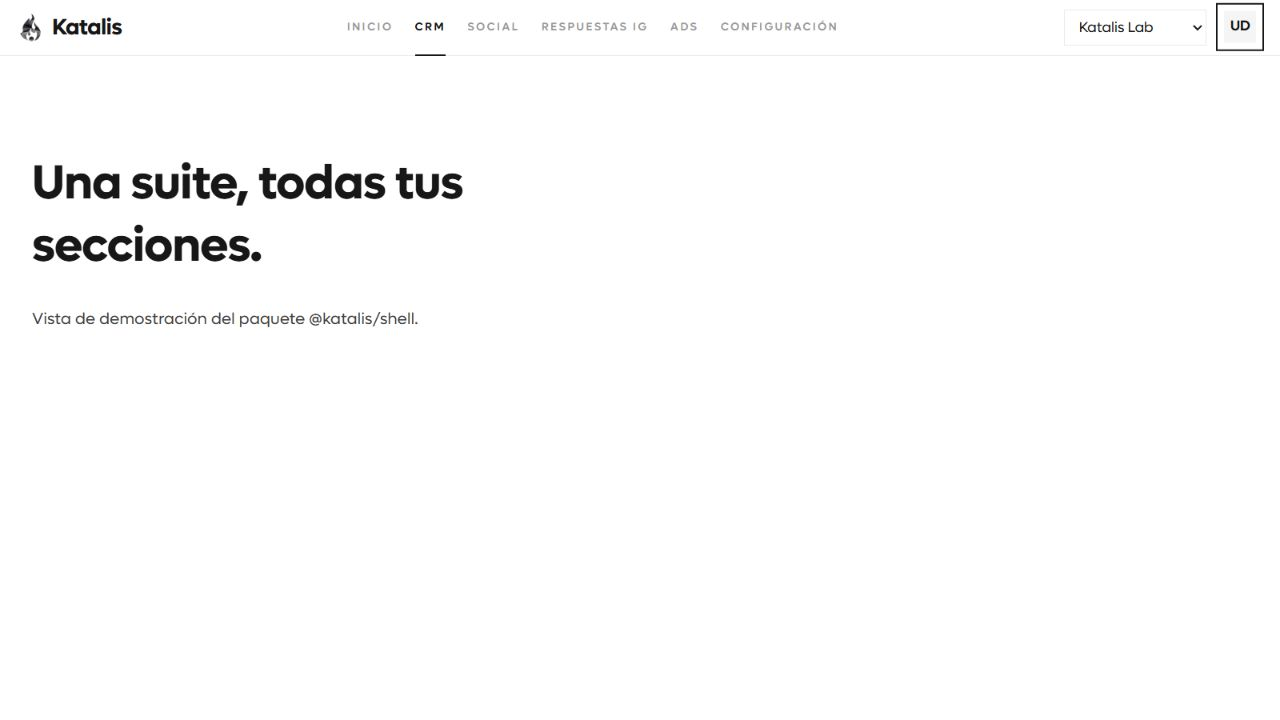
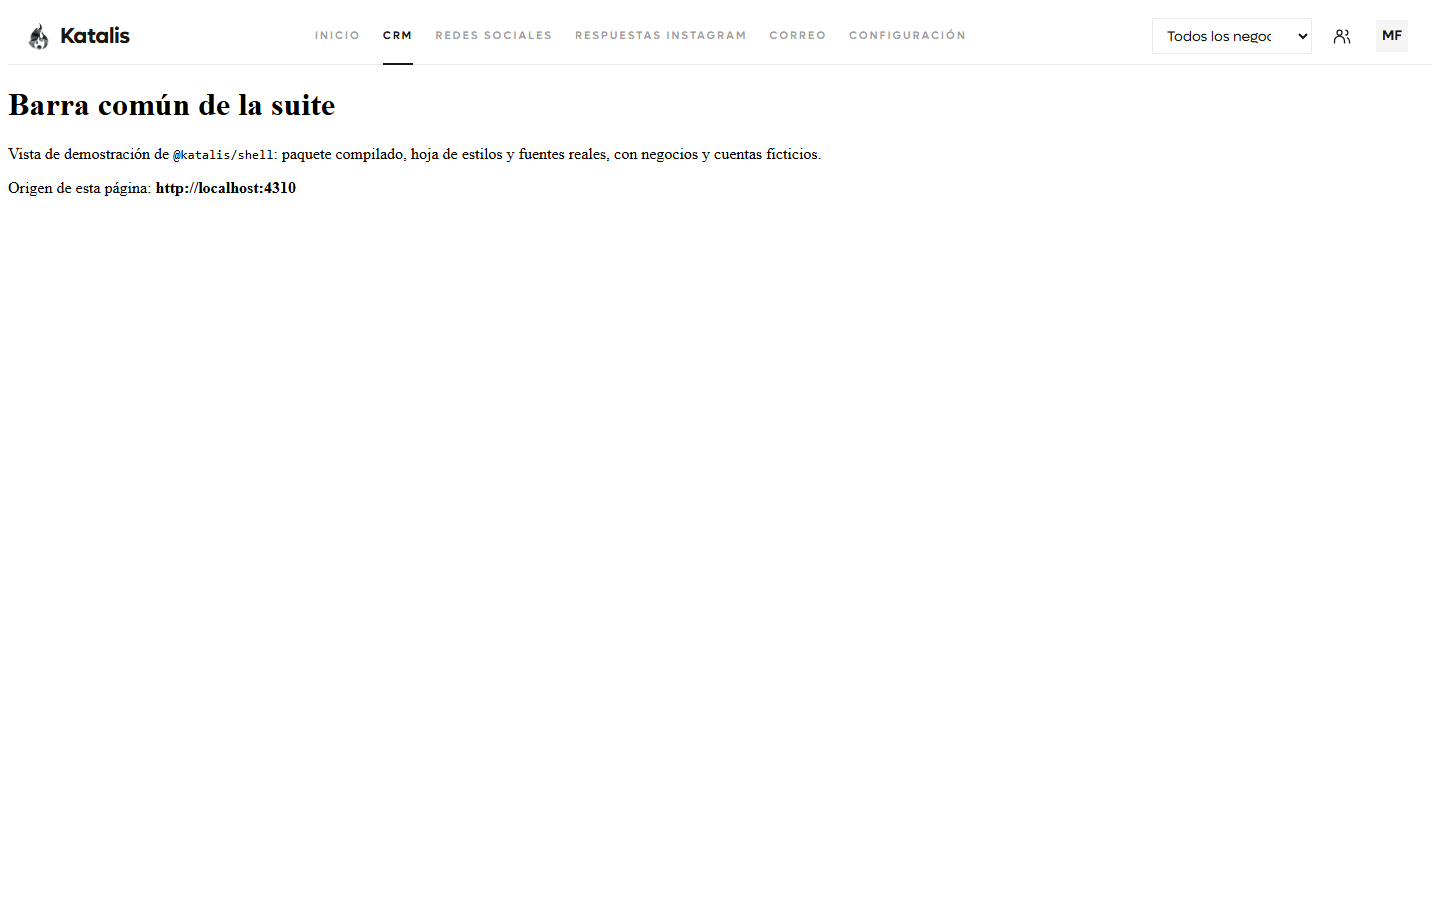
chore(shell): fixture reproducible, capturas y versión 0.6.0
El ejemplo usa enlaces completos, un catálogo ficticio explícito y un nombre
largo, carga el paquete compilado y la hoja real, y se sirve con dos comandos.
`?compatibilidad=1` añade la barra de siete secciones. La salida se ejercita
contra el servidor local, con éxito y con fallo.

`check-types` valida también el ejemplo con `tsconfig.examples.json`; antes un
verde de `src` no decía nada del fixture.

README: tercer argumento, seis secciones, `all`, responsive, atajo y el catálogo
del CRM como autoridad. El paquete queda en 0.6.0, sin etiqueta.

diff --git a/examples/preview.tsx b/examples/preview.tsx
@@ -1,22 +1,100 @@
 import { createRoot } from 'react-dom/client';
-import { KatalisShell, createSections, openReplyContactsHref, useKatalisBusiness } from '../src/index.js';
+import {
+  createSections,
+  KatalisBusinessProvider,
+  KatalisShell,
+  openReplyContactsHref,
+  OPERATIONAL_SECTION_IDS,
+  useKatalisBusiness,
+  type BusinessCatalog,
+  type KatalisLinks,
+} from '../dist/index.js';
 import '../styles.css';
 
-const links = {
-  home: 'http://localhost:4310',
-  crm: 'http://localhost:3000',
-  social: 'http://localhost:4200',
-  replies: 'https://openreply.katalis.dev',
+const ORIGIN_A = 'http://localhost:4310';
+const ORIGIN_B = 'http://127.0.0.1:4311';
+
+const links: KatalisLinks = {
+  home: `${ORIGIN_A}/`,
+  crm: `${ORIGIN_B}/crm`,
+  social: `${ORIGIN_B}/social`,
+  replies: `${ORIGIN_B}/replies`,
+  mail: `${ORIGIN_A}/correo`,
   ads: '#',
-  settings: 'http://localhost:3000/settings',
+  settings: `${ORIGIN_A}/configuracion`,
 };
 
-function Preview() {
+const catalog: BusinessCatalog = {
+  options: [
+    { id: 'biz-orbita-sw', label: 'Órbita SW', groupId: 'orbita', groupLabel: 'Órbita' },
+    { id: 'biz-orbita-luxury', label: 'Órbita Luxury', groupId: 'orbita', groupLabel: 'Órbita' },
+    { id: 'biz-rock-and-jewel', label: 'Rock & Jewel' },
+    {
+      id: 'biz-distribuidora-de-materiales-industriales-del-bajio',
+      label: 'Distribuidora de materiales industriales del Bajío',
+    },
+  ],
+};
+
+const longUser = {
+  name: 'María Fernanda de la Cruz Villaseñor',
+  email: 'maria.fernanda.delacruz@negocio-de-ejemplo-largo.test',
+};
+
+const shortUser = {
+  name: 'Ana Ruiz',
+  email: 'ana@ejemplo.test',
+};
+
+function Operational() {
   const business = useKatalisBusiness();
-  return <>
-    <KatalisShell sections={createSections(links, business.value)} current="crm" business={business} contactsHref={openReplyContactsHref('http://localhost:3000/crm', business.value)} user={{ name: 'Usuario de ejemplo', email: 'demo@example.com', onSignOut() {} }} />
-    <main id="katalis-content" tabIndex={-1}><h1>Una suite, todas tus secciones.</h1><p>Vista de demostración del paquete @katalis/shell.</p></main>
-  </>;
+  return (
+    <KatalisShell
+      sections={createSections(links, business.value, { visibleSections: OPERATIONAL_SECTION_IDS })}
+      current="crm"
+      business={business}
+      contactsHref={openReplyContactsHref(`${ORIGIN_A}/espacio`, business.value)}
+      signOutUrl={`${ORIGIN_A}/api/salida`}
+      signOutDestination="/salida-ok"
+      user={longUser}
+    />
+  );
+}
+
+function Compatibility() {
+  const business = useKatalisBusiness();
+  return (
+    <KatalisShell
+      sections={createSections(links, business.value)}
+      current="home"
+      business={business}
+      signOutUrl={`${ORIGIN_A}/api/salida-fallida`}
+      signOutDestination="/salida-ok"
+      user={shortUser}
+    />
+  );
+}
+
+function Preview() {
+  const withCompatibility = new URLSearchParams(window.location.search).get('compatibilidad') === '1';
+  return (
+    <KatalisBusinessProvider catalog={catalog}>
+      <div className="fixture">
+        <Operational />
+        {withCompatibility ? <Compatibility /> : null}
+        <main id="katalis-content" tabIndex={-1} className="fixture__content">
+          <h1>Barra común de la suite</h1>
+          <p>
+            Vista de demostración de <code>@katalis/shell</code>: paquete compilado, hoja de estilos y
+            fuentes reales, con negocios y cuentas ficticios.
+          </p>
+          <p>
+            Origen de esta página: <strong>{window.location.origin}</strong>
+          </p>
+        </main>
+      </div>
+    </KatalisBusinessProvider>
+  );
 }
 
 createRoot(document.getElementById('root')!).render(<Preview />);

diff --git a/examples/serve.ts b/examples/serve.ts
@@ -1,0 +1,35 @@
+const port = Number(process.argv[2] ?? 4310);
+const hostname = process.argv[3] ?? 'localhost';
+const root = new URL('..', import.meta.url).pathname.replace(/^\/([A-Za-z]:)/, '$1');
+const dist = `${root}/examples/dist`;
+
+const page = async (file: string, type: string): Promise<Response> =>
+  new Response(Bun.file(file), { headers: { 'content-type': type } });
+
+Bun.serve({
+  port,
+  hostname,
+  async fetch(request) {
+    const { pathname } = new URL(request.url);
+    if (pathname === '/api/salida') return new Response(null, { status: 200 });
+    if (pathname === '/api/salida-fallida') return new Response(null, { status: 500 });
+    if (pathname === '/salida-ok') {
+      return new Response(
+        '<!doctype html><html lang="es-MX"><head><meta charset="utf-8"><title>Salida correcta</title></head><body><main id="katalis-content"><h1>Salida correcta</h1><p>La sesión se cerró y el navegador llegó al destino seguro.</p></main></body></html>',
+        { headers: { 'content-type': 'text/html; charset=utf-8' } },
+      );
+    }
+    if (pathname === '/' || pathname === '/crm' || pathname === '/social' || pathname === '/replies' || pathname === '/correo' || pathname === '/configuracion') {
+      return page(`${root}/examples/index.html`, 'text/html; charset=utf-8');
+    }
+    if (pathname === '/preview.js') return page(`${dist}/preview.js`, 'text/javascript; charset=utf-8');
+    if (pathname === '/styles.css') return page(`${dist}/preview.css`, 'text/css; charset=utf-8');
+    const asset = pathname.slice(1);
+    if (/^[A-Za-z0-9._-]+$/.test(asset) && (await Bun.file(`${dist}/${asset}`).exists())) {
+      return new Response(Bun.file(`${dist}/${asset}`));
+    }
+    return new Response('No encontrado', { status: 404, headers: { 'content-type': 'text/plain; charset=utf-8' } });
+  },
+});
+
+console.log(`Fixture en http://${hostname}:${port}/`);

diff --git a/examples/index.html b/examples/index.html
@@ -1,0 +1,13 @@
+<!doctype html>
+<html lang="es-MX">
+  <head>
+    <meta charset="utf-8" />
+    <meta name="viewport" content="width=device-width, initial-scale=1" />
+    <title>Barra común de la suite — vista de demostración</title>
+    <link rel="stylesheet" href="./styles.css" />
+  </head>
+  <body>
+    <div id="root"></div>
+    <script type="module" src="./preview.js"></script>
+  </body>
+</html>

diff --git a/README.md b/README.md
@@ -5,12 +5,19 @@ El CSS consume `@katalis/ui-tokens` v0.1.0. La barra mide 56 px, conserva esquin
 Instala los tokens explícitamente en cada aplicación; son una dependencia par, igual que React.
 
 ```tsx
-import { KatalisShell, createSections, useKatalisBusiness } from '@katalis/shell';
+import { KatalisShell, createSections, OPERATIONAL_SECTION_IDS, useKatalisBusiness } from '@katalis/shell';
 import '@katalis/shell/styles.css';
 
 function Navigation({ links, user }) {
   const business = useKatalisBusiness();
-  return <KatalisShell sections={createSections(links, business.value)} current="crm" business={business} user={user} />;
+  return (
+    <KatalisShell
+      sections={createSections(links, business.value, { visibleSections: OPERATIONAL_SECTION_IDS })}
+      current="crm"
+      business={business}
+      user={user}
+    />
+  );
 }
 ```
 
@@ -21,11 +28,19 @@ function Navigation({ links, user }) {
 | `business` | `{ value, options: [{ id, label }], onChange }`. Estado controlado por la aplicación. |
 | `user` | `{ name, email, avatarUrl?, onSignOut }`. El callback cierra la sesión en la aplicación anfitriona. |
 | `signInHref` | Enlace de acceso cuando `user` está ausente. El hub usa el acceso del CRM. |
-| `contactsHref` | Acceso directo «Contactos de OpenReply»; icono con nombre accesible y texto desde 1600 px. |
+| `contactsHref` | Acceso directo «Contactos de Instagram»; icono con nombre accesible y texto desde 1600 px. |
 | `contentId` | ID del contenido para el enlace accesible. Predeterminado: `katalis-content`. |
 
 `links` es un objeto con los siete IDs y enlaces HTTP/HTTPS absolutos.
+`createSections(links, businessId, options)` acepta un tercer argumento opcional.
+Sin él devuelve las siete secciones en orden canónico, como antes.
+Con `{ visibleSections }` devuelve solo esos IDs, en orden canónico y sin duplicados; una lista vacía no dibuja ninguna.
+`OPERATIONAL_SECTION_IDS` es la lista operativa: `home`, `crm`, `social`, `replies`, `mail`, `settings`.
+`ads` sigue en los tipos y en las etiquetas para no romper a quien ya lo pasa, pero no entra en la navegación operativa.
+Etiquetas visibles: Inicio, CRM, Redes sociales, Respuestas Instagram, Correo y Configuración.
 `createSections` conserva rutas, parámetros y fragmentos; `#` desactiva una sección pendiente, como Ads.
+Un negocio explícito y `all` sustituyen el `negocio` anterior con una sola ocurrencia.
+`all` viaja escrito: quien lee la barra consulta el almacenamiento local del origen cuando falta el parámetro, así que borrarlo resucitaría una selección vieja en el destino. Una entrada vacía o ausente no toca el negocio del destino.
 CRM: `http://localhost:3000` o `https://crm.katalis.dev`.
 Social: `http://localhost:4200` o `https://social.katalis.dev`.
 Respuestas IG: `https://openreply.katalis.dev`.
@@ -33,8 +48,8 @@ Correo: `https://mail.katalis.dev`, pendiente (`#`) hasta que el servicio esté 
 Configuración usa el enlace absoluto del CRM terminado en `/settings`.
 Inicio apunta a `https://katalis.dev` o al hub local en `http://localhost:4300`.
 
-`useKatalisBusiness` ofrece Todos los negocios, Órbita, Rock & Jewel, Dental y Katalis Lab.
-Conserva la selección en almacenamiento local y la transfiere mediante el parámetro `negocio` al navegar.
+El catálogo lo publica el CRM. `KatalisBusinessProvider` recibe `{ options: [{ id, label, groupId?, groupLabel? }] }` y es la autoridad; la lista que trae el paquete es solo un respaldo de desarrollo y ninguna interfaz debe tratarla como catálogo real.
+`useKatalisBusiness` conserva la selección en almacenamiento local y la transfiere mediante el parámetro `negocio` al navegar.
 Usa la clave `katalis.business`. El almacenamiento es por origen; el parámetro `negocio` transfiere la selección entre subdominios.
 El hook devuelve `ready` después de hidratar y acepta un callback opcional para cambios del selector.
 Cada aplicación aplica sus filtros. El CRM usa la selección como filtro inicial de Negocio en Contactos.
@@ -44,7 +59,10 @@ La autenticación y las integraciones de datos pertenecen a cada aplicación. Es
 Importa el CSS una vez desde el layout raíz. CRM, Postiz y OpenReply montan la barra en su zona autenticada.
 El hub también monta la barra sin sesión, con el enlace Entrar.
 Asigna el espacio restante al contenido con flex y `min-height: 0` para evitar doble scroll.
-Las seis secciones son visibles desde 900 px. Por debajo usan un desplegable accesible. Escape cierra los desplegables.
+La barra se adapta sin cambiar de diseño: por debajo de 900 px la navegación vive en el desplegable Secciones; entre 900 y 1199 px la navegación ocupa una segunda fila y la barra crece; desde 1200 px vuelve a una sola fila cuando cabe.
+La segunda fila hace que la barra mida más de 56 px en ese rango: un consumidor que reste una altura fija al contenido debe usar flex, no una resta.
+Los valores largos del selector solo se truncan en pantalla; su nombre accesible no cambia.
+Escape cierra los desplegables y el enlace Saltar al contenido apunta a `contentId`.
 La barra usa enlaces nativos, foco visible y movimiento reducido. No contiene una acción primaria.
 Las microcaps inactivas siguen el requisito explícito de tinta al 40 %, que prevalece sobre K6 en esta barra.
 
@@ -64,6 +82,19 @@ bun run check-types
 bun test
 ```
 
+Vista de demostración, con datos ficticios y sin servicios reales:
+
+```sh
+bun run build
+bun run preview:build
+bun run preview:serve        # http://localhost:4310
+bun run preview:serve-b      # http://127.0.0.1:4311, el segundo origen
+```
+
+El fixture carga el paquete compilado (`dist`), la hoja `styles.css` y las fuentes reales.
+`?compatibilidad=1` añade una segunda barra con las siete secciones para comprobar la compatibilidad.
+La salida se ejercita contra el servidor local: `/api/salida` responde 200 y `/api/salida-fallida` responde 500.
+
 Se publica `dist` compilado para que las dependencias git no necesiten scripts de instalación.
 No muevas una etiqueta publicada. Crea una nueva versión para cualquier cambio posterior.
 
@@ -74,6 +105,8 @@ La versión 0.1.3 conserva el negocio recibido por enlace al continuar por las r
 La versión 0.2.0 añade el umbral de 900 px, Todos los negocios, callback, estado de hidratación, acceso sin sesión y atajo de contactos.
 `openReplyContactsHref` recibe la URL del espacio CRM, por ejemplo `https://crm.katalis.dev/katalis`, y conserva el filtro `source=OPENREPLY`.
 La versión 0.5.0 añade la sección **Correo** (`mail`) entre Respuestas IG y Ads. El consumidor decide si está lista: `#` la deja pendiente y la barra la dibuja desactivada con «próximamente», como Ads.
+La versión 0.6.0 añade el tercer argumento de `createSections` y `OPERATIONAL_SECTION_IDS`, traduce las etiquetas a Redes sociales y Respuestas Instagram, renombra el atajo a Contactos de Instagram y ajusta el responsive a segunda fila entre 900 y 1199 px.
+`all` deja de borrarse: viaja explícito como `negocio=all` para que el destino no recupere una selección guardada. Es un cambio de comportamiento deliberado, no una compatibilidad byte a byte.
 
 ## Identidad única (v0.3.0)
 
